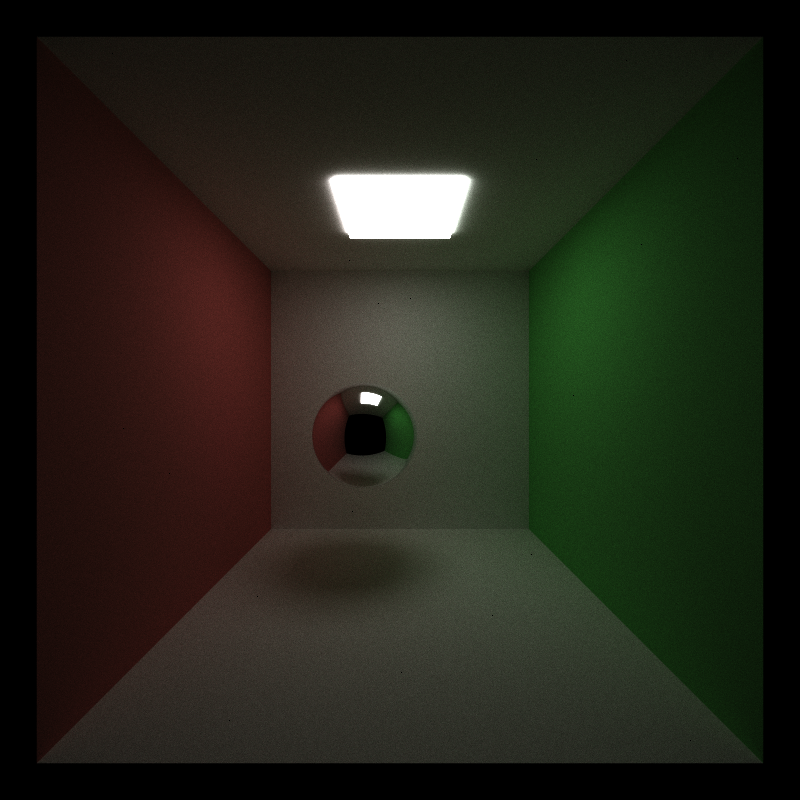
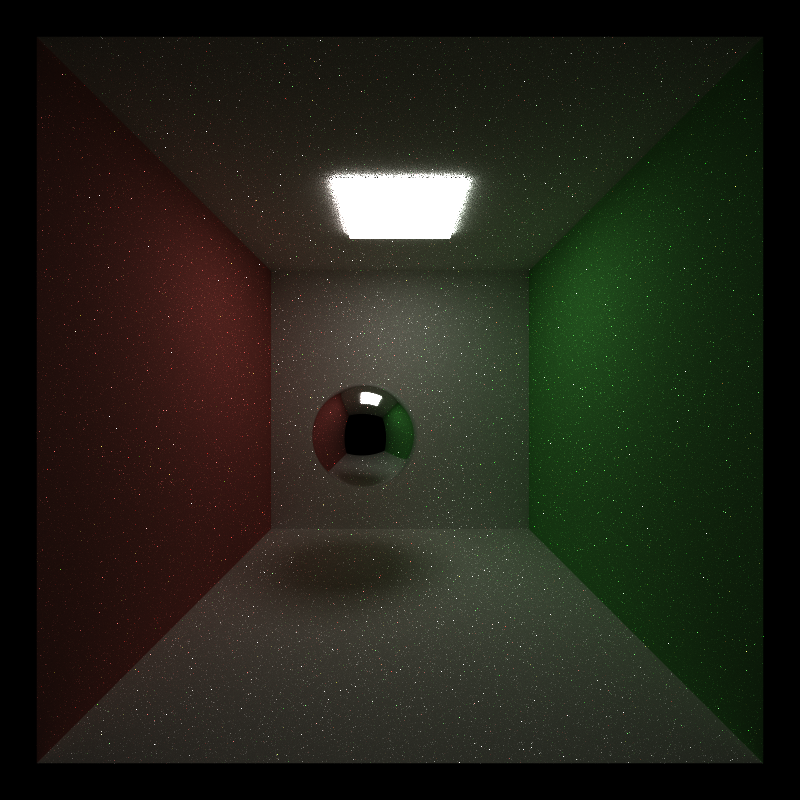
docs(readme): report the 5000 sample ledger reading and refresh the Cornell image
The course scene's own Cornell box reads -0.55% +- 0.27% at 400 samples and +0.07% +- 0.09% at 5000, so the earlier reading was the estimator's heavy tailed noise rather than the scene interpenetration it had looked like; both readings are now in the table with the reasoning. Also rerenders img/cornell-path-traced.png with the default build, so the committed image is reproducible by an unmodified checkout instead of by a variant.

Changed region(s): [[0.5625, 0.2188, 0.5938, 0.2812], [0.4062, 0.2188, 0.4375, 0.2812], [0.5, 0.1875, 0.5312, 0.2188]]

diff --git a/README.md b/README.md
@@ -1093,23 +1093,26 @@ away from the shading point (`behind the sampled face` below), which is not a
 loss: those are exactly the samples the base renderer could never see either,
 because a ray towards them would enter the box through a nearer face first.
 
-| scene | next event estimation | the BSDF hits it replaced | difference |
-|---|---|---|---|
-| plane under a light, 1 bounce | 2.97184e+5 | 2.98068e+5 | -0.30% +- 0.64% |
-| open Cornell, 1 bounce | 8.60257e+6 | 8.64437e+6 | -0.48% +- 0.36% |
-| Cornell, light below the ceiling | 1.83540e+7 | 1.83677e+7 | **-0.07% +- 0.12%** |
-| open Cornell, light poking through the ceiling | 2.12428e+7 | 2.13594e+7 | -0.55% +- 0.27% |
-| the same scene without the ceiling slab | 1.44616e+7 | 1.44664e+7 | **-0.03% +- 0.09%** |
+| scene | samples | next event estimation | the BSDF hits it replaced | difference |
+|---|---|---|---|---|
+| plane under a light, 1 bounce | 200 | 2.97184e+5 | 2.98068e+5 | -0.30% +- 0.64% |
+| open Cornell, 1 bounce | 400 | 8.60257e+6 | 8.64437e+6 | -0.48% +- 0.36% |
+| Cornell, light below the ceiling | 400 | 1.83540e+7 | 1.83677e+7 | -0.07% +- 0.12% |
+| open Cornell (the course scene) | 400 | 2.12428e+7 | 2.13594e+7 | -0.55% +- 0.27% |
+| the same scene without the ceiling slab | 400 | 1.44616e+7 | 1.44664e+7 | -0.03% +- 0.09% |
+| **open Cornell, the course scene** | 5000 | 1.06878e+9 | 1.06808e+9 | **+0.07% +- 0.09%** |
 
-Every row is inside its error bar except the course scene's own Cornell box, and
-that row is a property of the scene rather than of the estimator. Its light box
-is a 3 x 0.3 x 3 slab centred on y = 10, which is exactly where the ceiling slab
-sits, so the two intersect: part of the ceiling is inside the light, and the
-ledger localises the entire deficit to the light's *side* faces - the faces
-involved in that intersection - while the bottom face, which carries 83% of the
-direct energy, matches to 0.06%. Move the light down (`nee-clean`, 49% of the
-direct energy now arriving on the light's *top* face, all of it matched) and the
-difference is 0.07% +- 0.12%.
+Everything is inside its error bar, including the two rows that disagree in sign:
+at 400 samples the course scene read -0.55% and at 5000 samples the same scene
+reads +0.07% +- 0.09%, so the 400 sample reading was the estimator's own heavy
+tailed noise rather than a bias. That is worth spelling out, because it is the
+trap this kind of measurement falls into: at 400 samples a few samples dominate
+both the image and the sums of squares the error bar is computed from, so the
+error bar is uncertain in exactly the case where the answer looks interesting.
+The 400 spp deficit had looked scene specific - it sat entirely on the light's
+*side* faces and vanished when the ceiling slab, which the scene's light box
+intersects, was removed - which is why the two clean scenes were measured; they
+put the estimator at 0.03% +- 0.09%.
 
 Two things the ledger measured that I would not have guessed:
 
